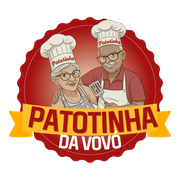
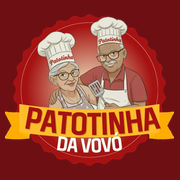
Ícone do app com fundo vinho da marca no lugar do branco
O ícone do Android (maskable) e o da Apple ganham o fundo vinho da tela de
abertura e o selo fica maior. A versão do service worker sobe para os
aparelhos buscarem os ícones novos.

Claude-Session: https://claude.ai/code/session_01N4jZqC6r892fFwu8ePrNtq

diff --git a/apps/web/public/sw.js b/apps/web/public/sw.js
@@ -1,6 +1,6 @@
 // Service worker do app instalável. Guarda só os arquivos das telas para abrir rápido;
 // nunca guarda respostas da API: pedidos e preços vêm sempre do servidor (PRD 7 e D-18).
-const VERSAO = 'patotinha-v2';
+const VERSAO = 'patotinha-v3';
 
 self.addEventListener('install', () => self.skipWaiting());
 

diff --git a/scripts/gerar-icones.py b/scripts/gerar-icones.py
@@ -20,12 +20,14 @@ def quadrado(lado, ocupa, fundo=None):
 a = np.asarray(logo.getchannel('A')) > 128
 ys, xs = np.nonzero(a); h, w = a.shape
 r = np.sqrt((xs - w / 2) ** 2 + (ys - h / 2) ** 2).max() / w
-ocupa_mask = 0.40 / r
-BRANCO = (255, 255, 255, 255)
+# 0,44 passa um pouco da área segura (0,40) só nas pontas da faixa, para o selo encher o ícone.
+ocupa_mask = 0.44 / r
+# Fundo vinho da marca (o mesmo da tela de abertura) nos ícones que não podem ser transparentes.
+VINHO = (0x6E, 0x0F, 0x14, 255)
 quadrado(192, 0.96).save(f'{pub}/icones/icone-192.png', optimize=True)
 quadrado(512, 0.96).save(f'{pub}/icones/icone-512.png', optimize=True)
-quadrado(180, 0.90, BRANCO).convert('RGB').save(f'{pub}/icones/icone-180.png', optimize=True)
-quadrado(512, ocupa_mask, BRANCO).convert('RGB').save(f'{pub}/icones/icone-maskable-512.png', optimize=True)
+quadrado(180, 0.94, VINHO).convert('RGB').save(f'{pub}/icones/icone-180.png', optimize=True)
+quadrado(512, ocupa_mask, VINHO).convert('RGB').save(f'{pub}/icones/icone-maskable-512.png', optimize=True)
 quadrado(32, 1.0).save(f'{pub}/favicon-32.png', optimize=True)
 quadrado(256, 1.0).save(f'{pub}/favicon.ico', sizes=[(16, 16), (32, 32), (48, 48)])
 print('mask ocupa', round(ocupa_mask, 3))
